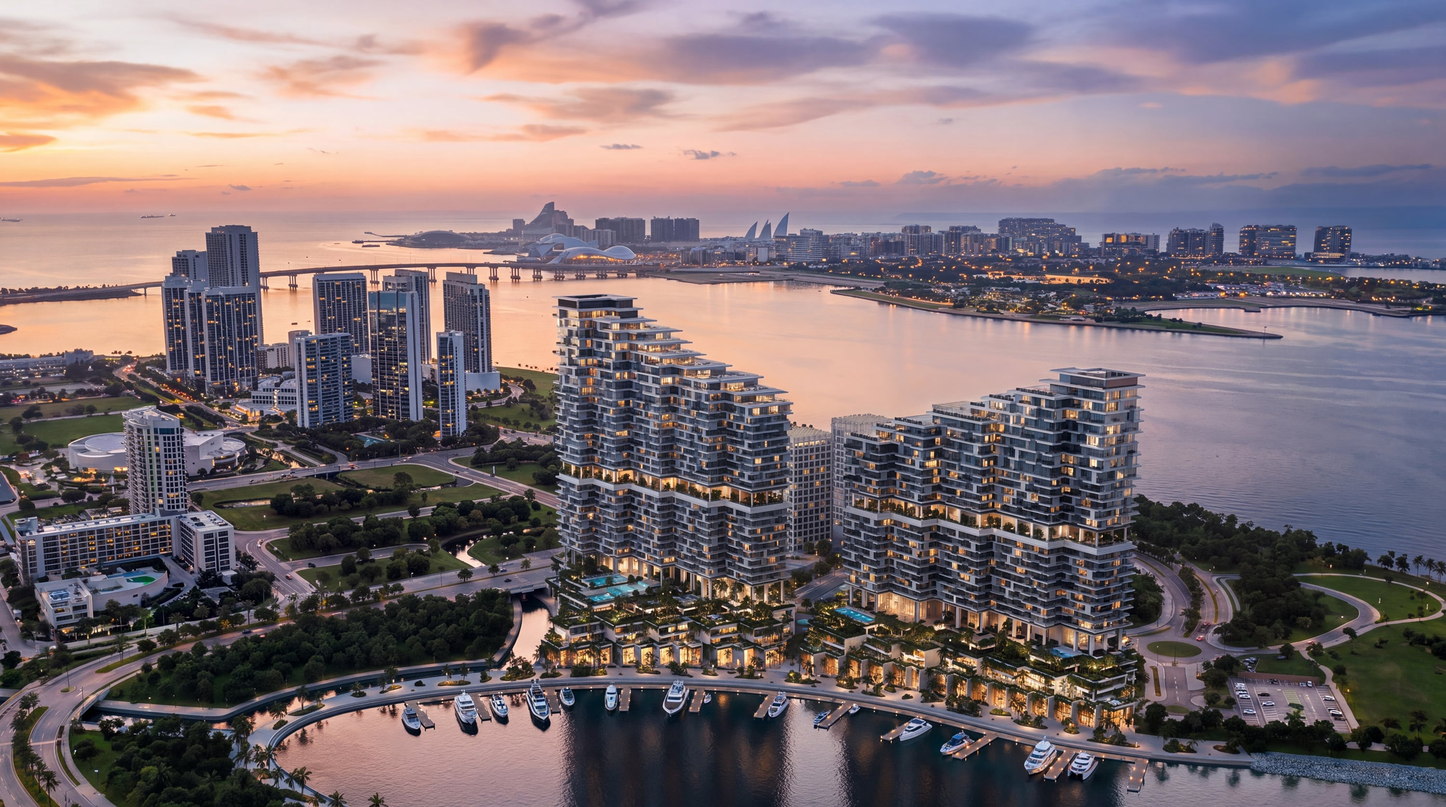
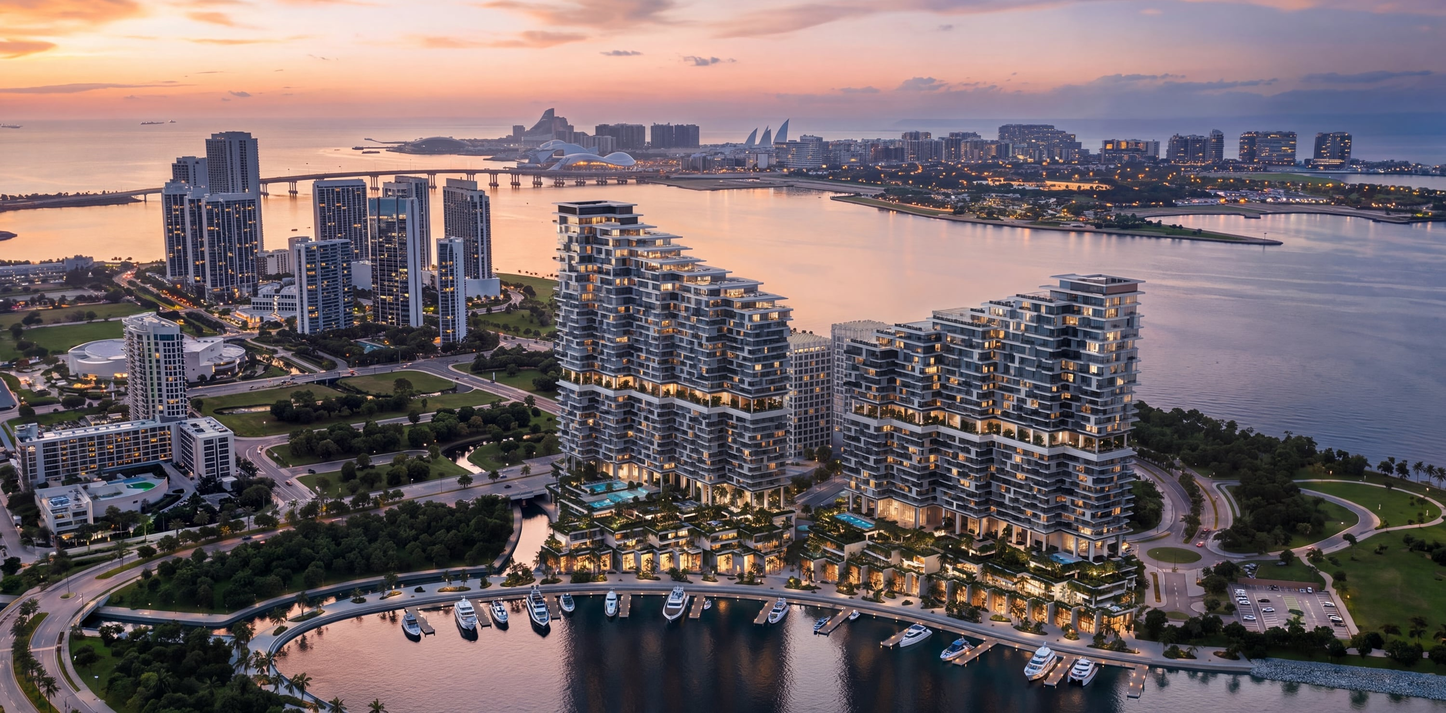
clients comments

diff --git a/pages/projects/riviera/index.vue b/pages/projects/riviera/index.vue
@@ -8,10 +8,10 @@
         :ref="setProjectCard"
         :src="background"
         alt="Riviera Residences waterfront"
-        class="absolute inset-0 -z-20 h-full w-full object-cover"
+        class="absolute inset-0 -z-20 h-full w-full object-cover object-bottom"
         fetchpriority="high"
       />
-      <div class="absolute inset-0 -z-10 bg-black/20 sm:bg-transparent" />
+      <div class="absolute inset-0 -z-10 bg-black/20 sm:bg-black/10" />
       <!-- <div
         class="pointer-events-none absolute inset-0 z-10 flex items-start justify-center"
       >
@@ -29,19 +29,30 @@
           v-for="phase in [1, 2]"
           :key="phase"
           :to="`/projects/riviera/phase${phase}`"
-          class="bg-transparent group flex flex-col items-center md:items-start justify-end md:justify-center px-5 py-10 transition-all duration-300 hover:bg-black/10 focus-visible:bg-black/20 focus-visible:outline focus-visible:outline-2 focus-visible:outline-inset focus-visible:outline-white md:items-center"
-          :class="phase === 2 ? 'items-center !justify-start md:!justify-center' : ''"
+          class="bg-transparent group flex flex-col gap-4 md:gap-12 items-center md:items-start justify-center md:justify-center px-5 py-10 transition-all duration-300 hover:bg-black/10 focus-visible:bg-black/20 focus-visible:outline focus-visible:outline-2 focus-visible:outline-inset focus-visible:outline-white md:items-center"
+          :class="
+            phase === 2 ? 'items-center border-t border-white/20 sm:border-none' : ''
+          "
         >
-          <span
-            class="title-sans-serif-l px-6 py-2 text-center text-3xl tracking-[.1rem] transition-colors md:px-6 sm:text-5xl md:text-7xl uppercase"
+          <div class="flex flex-col items-center md:items-center justify-end md:justify-center">
+            <span
+              class="title-sans-serif-l px-6 py-2 text-center text-4xl sm:text-5xl md:text-5xl lg:text-5xl xl:text-6xl 2xl:text-6xl tracking-[.1rem] transition-colors md:px-6 uppercase"
+            >
+              Riviera Residences
+            </span>
+            <span
+              class="title-sans-serif-r px-6 py-2 text-center text-base tracking-[.1rem] transition-colors md:px-6 md:text-lg uppercase"
+            >
+              Phase {{ phase }}
+            </span>
+          </div>
+
+          <button
+            class="bg-[#faf3e9] border border-white/30 hover:border-white/70 text-[#434848] text-[.7rem] md:text-[.85rem] tracking-[.1rem] h-12 md:h-12 px-8 md:px-12 rounded-0 uppercase transition duration-300"
+            type="button"
           >
-            Riviera Residences
-          </span>
-          <span
-            class="title-sans-serif-r px-6 py-2 text-center text-base tracking-[.1rem] transition-colors md:px-6 md:text-lg uppercase"
-          >
-            Phase {{ phase }}
-          </span>
+            Discover Phase {{ phase }}
+          </button>
         </NuxtLink>
       </div>
     </section>
@@ -49,23 +60,23 @@
 </template>
 
 <script setup lang="ts">
-import { gsap } from 'gsap'
+import { gsap } from "gsap";
 import type { Project } from "~/data/projects";
 
 const { data: project } = await useFetch<Project>("/api/projects/riviera");
-if (!project.value) throw createError({ statusCode: 404, statusMessage: "Project not found" });
+if (!project.value)
+  throw createError({ statusCode: 404, statusMessage: "Project not found" });
 
 const background = computed(
   () => project.value!.phaseSelectionImage || "/images/riviera/main.jpg",
 );
-const projectCards = ref<HTMLElement[]>([])
+const projectCards = ref<HTMLElement[]>([]);
 
 const setProjectCard = (element: Element | null) => {
   if (element instanceof HTMLElement) {
-    projectCards.value.push(element)
+    projectCards.value.push(element);
   }
-}
-
+};
 
 usePageSeo({
   title: "Riviera Residences | MERED Broker Kit",
@@ -79,21 +90,21 @@ usePageSeo({
 useHead({ link: [{ rel: "preload", as: "image", href: background }] });
 
 onMounted(async () => {
-  await nextTick()
+  await nextTick();
 
-  console.log('projectCards ', projectCards)
+  console.log("projectCards ", projectCards);
 
   gsap.set(projectCards.value, {
     autoAlpha: 0,
-    y: 20
-  })
+    y: 20,
+  });
 
   gsap.to(projectCards.value, {
     autoAlpha: 1,
     y: 0,
     duration: 1.25,
-    ease: 'power3.out',
-    stagger: 0.15
-  })
-})
+    ease: "power3.out",
+    stagger: 0.15,
+  });
+});
 </script>

diff --git a/components/ProjectCatalog.vue b/components/ProjectCatalog.vue
@@ -8,7 +8,7 @@
           :key="material.title"
           :ref="setMaterialCard"
           :class="materialCardClass(index)"
-          class="group relative flex h-[175px] flex-col justify-between cursor-pointer overflow-hidden p-4 sm:p-6 md:p-8 lg:p-8 text-left text-white md:h-full "
+          class="group relative flex h-[175px] flex-col justify-between cursor-pointer overflow-hidden p-4 sm:p-4 md:p-4 lg:p-6 xl:p-6 2xl:p-8 text-left text-white md:h-full "
           type="button"
           @click="openLink(material.fileUrl)"
         >
@@ -43,17 +43,17 @@
 
           <span class="flex flex-col gap-0 md:gap-1 lg:gap-1 pb-0 pr-[50px]">
             <span
-              class="relative z-[1] self-start font-serif fond-bold text-[24px] md:text-[26px] lg:md:text-[32px] xl:text-[38px] leading-[1.15] tracking-[.25px]"
+              class="relative z-[1] self-start font-serif fond-bold text-[24px] md:text-[26px] lg:text-[26px] xl:text-[26px] 2xl:text-[32px] leading-[1.15] tracking-[.25px]"
               >{{ material.title }}</span
             >
             <span
-              class="relative z-[1] self-start font-sans fond-bold text-[16px] md:text-[16px] lg:text-[20px] leading-[1.25] w-[80%] md:w-full "
+              class="relative z-[1] self-start font-sans fond-bold text-[16px] md:text-[16px] lg:text-[16px] xl:text-[16px] 2xl:text-[18px] leading-[1.25] w-[80%] md:w-full "
               >{{ material.subtitle }}</span
             >
           </span>
 
           <span
-            class="absolute right-4 bottom-2 md:right-6 md:bottom-4 lg:bottom-8 z-[1] tracking-[.1em] text-[32px]"
+            class="absolute right-4 md:right-6 bottom-2 md:bottom-4 lg:bottom-4 xl:bottom-6 z-[1] tracking-[.1em] text-[32px]"
             >→</span
           >
           <!-- <span class="absolute right-6 top-[22px] z-[1] text-[22px]">{{ downloaded === material.title ? '✓' : '↓' }}</span> -->

diff --git a/app.vue b/app.vue
@@ -20,12 +20,12 @@
           class="flex flex-col gap-1 justify-center items-center"
           to="/"
         >
-          <div class="h-[100%] sm:h-[80%] flex align-bottom">
+          <div class="h-[100%] flex align-bottom">
             <img
               ref="headerLogoElement"
               :src="displayedHeaderLogo"
               :alt="displayedHeaderLogoAlt"
-              class="w-[150px] md:w-[220px] shadow-sm"
+              class="w-[130px] md:w-[200px] shadow-sm"
             />
           </div>
           <div class="absolute w-full -bottom-[12%] md:-bottom-[12%] flex justify-center">
@@ -84,7 +84,7 @@
       <div
         class="flex leading-none tracking-[.28em] w-full justify-center py-10"
       >
-        <img src="assets/img/mered-logo2.svg" alt="" class="w-[135px]" />
+        <img src="assets/img/mered-logo2.svg" alt="" class="w-[115px] md:w-[125px]" />
       </div>
     </footer>
   </div>

diff --git a/pages/index.vue b/pages/index.vue
@@ -16,7 +16,7 @@
             class="relative flex h-full w-full items-center justify-center overflow-hidden "
           >
             <div class="relative z-[999] text-white flex flex-col h-full w-full items-center justify-center text-center">
-              <img :src="`${project.logo}`"alt="" class="w-[40vw] md:w-[20vw]">
+              <img :src="`${project.logo}`"alt="" class="w-[40vw] md:w-[20vw] pb-0 md:pb-40">
               <div class="absolute bottom-0 w-[100vw] flex justify-center flex p-10 md:p-16">
                 <p class="text-md md:text-xl text-center leading-[1.2rem] md:leading-[1.65rem]  px-[1vw] md:px-[35vw]">{{ project.description }}</p>
               </div>

diff --git a/tailwind.config.ts b/tailwind.config.ts
@@ -10,7 +10,11 @@ export default <Partial<Config>>{
   ],
   theme: {
     screens: {
-      md: '801px'
+      sm: '640px',
+      md: '768px',
+      lg: '1024px',
+      xl: '1280px',
+      '2xl': '1536px'
     },
     extend: {
       colors: {

diff --git a/pages/admin.vue b/pages/admin.vue
@@ -31,7 +31,7 @@
 
       <section
         v-if="activeSection === 'projects' && selectedProject"
-        class="grid gap-8 lg:grid-cols-[360px_1fr]"
+        class="grid gap-8"
       >
 
       <div
